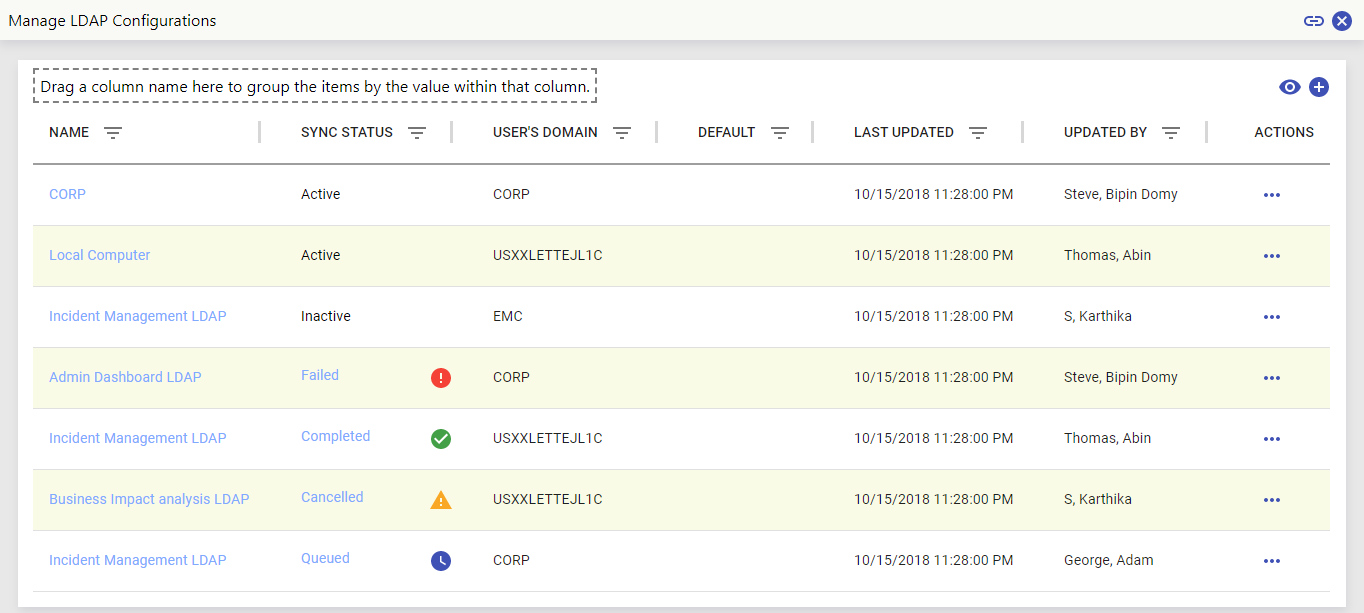
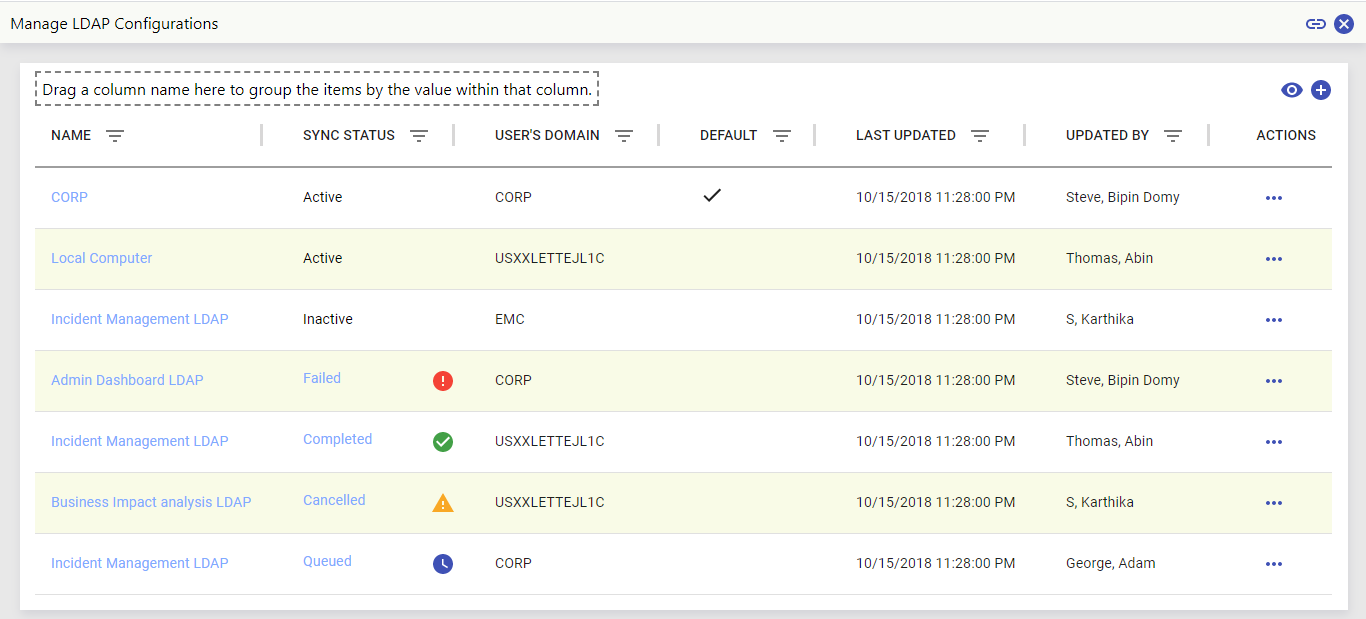
Addinng CheckIcon

diff --git a/rsa/src/components/dataTable.js b/rsa/src/components/dataTable.js
@@ -106,7 +106,7 @@ export default function table() {
           </TableRow>
         </TableHead>
         <TableBody  className="Row">
-          {rows.map((row) => (
+          {rows.map((row,i) => (
             <StyledTableRow key={row.name} style={{color:"#ffffff"}}>
               <TableCell component="th" scope="row" style={{color:"#80aaff"}}>
                 {row.name}
@@ -119,7 +119,7 @@ export default function table() {
               {row.status==="Queued" ? <WatchLaterIcon color='primary' style={{float:"right"}}/> : null}
               </TableCell>
               <TableCell align="left">{row.userDomain}</TableCell>
-              <TableCell align="left">{row.defaultStatus}</TableCell>
+              <TableCell align="left">{i===0 ? <CheckIcon/> : null}</TableCell>
               <TableCell align="left">{row.lastUpdated}</TableCell>
               <TableCell align="left">{row.updatedBy}</TableCell>
               <TableCell align="left"><Tooltip title="More">
